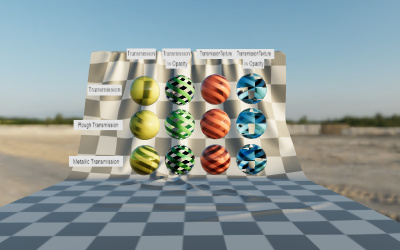
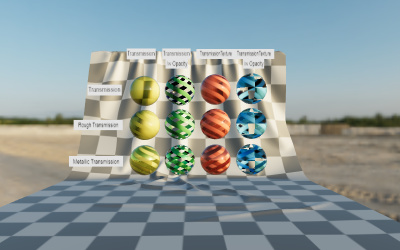
Improve metallic transmission (#21894)
* Improve Metallic Transmission shader

* Update example screenshots

Changed region(s): [[0.33, 0.588, 0.66, 0.7]]

diff --git a/src/renderers/shaders/ShaderChunk/lights_physical_fragment.glsl.js b/src/renderers/shaders/ShaderChunk/lights_physical_fragment.glsl.js
@@ -11,11 +11,11 @@ material.specularRoughness = min( material.specularRoughness, 1.0 );
 
 #ifdef REFLECTIVITY
 
-	material.specularColor = mix( vec3( MAXIMUM_SPECULAR_COEFFICIENT * pow2( reflectivity ) ), diffuseColor.rgb, metalnessFactor );
+	material.specularColor = mix( vec3( MAXIMUM_SPECULAR_COEFFICIENT * pow2( reflectivity ) ), rawDiffuseColor, metalnessFactor );
 
 #else
 
-	material.specularColor = mix( vec3( DEFAULT_SPECULAR_COEFFICIENT ), diffuseColor.rgb, metalnessFactor );
+	material.specularColor = mix( vec3( DEFAULT_SPECULAR_COEFFICIENT ), rawDiffuseColor, metalnessFactor );
 
 #endif
 

diff --git a/src/renderers/shaders/ShaderLib/meshphysical_frag.glsl.js b/src/renderers/shaders/ShaderLib/meshphysical_frag.glsl.js
@@ -100,6 +100,9 @@ void main() {
 	#include <clearcoat_normal_fragment_begin>
 	#include <clearcoat_normal_fragment_maps>
 	#include <emissivemap_fragment>
+
+	vec3 rawDiffuseColor = diffuseColor.rgb;
+
 	#include <transmission_fragment>
 
 	// accumulation
